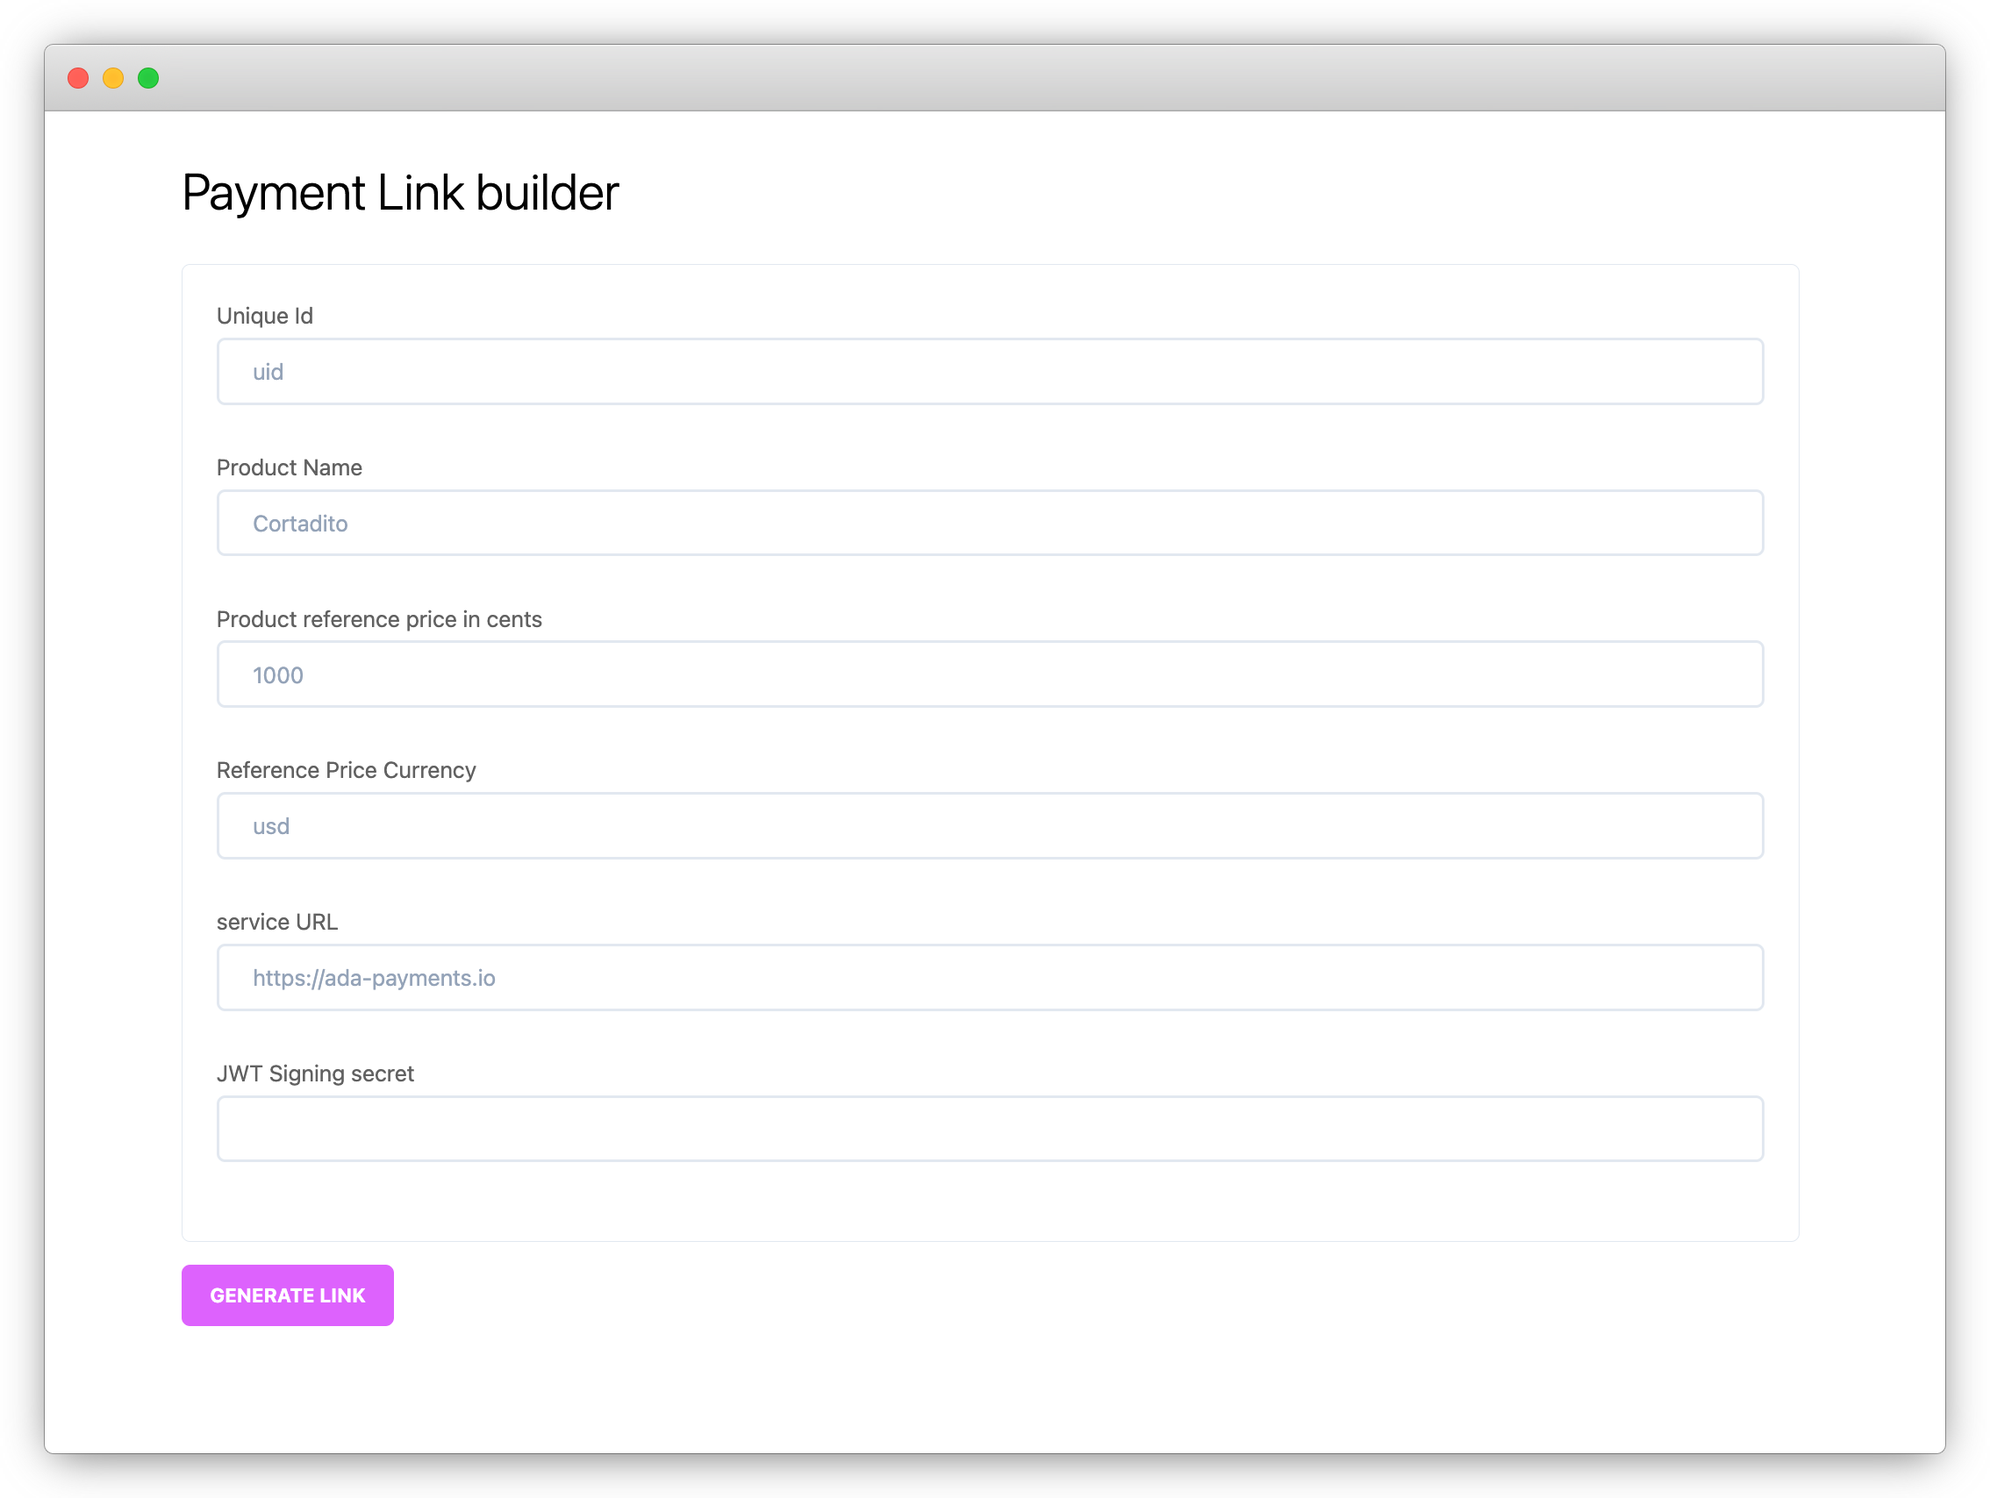
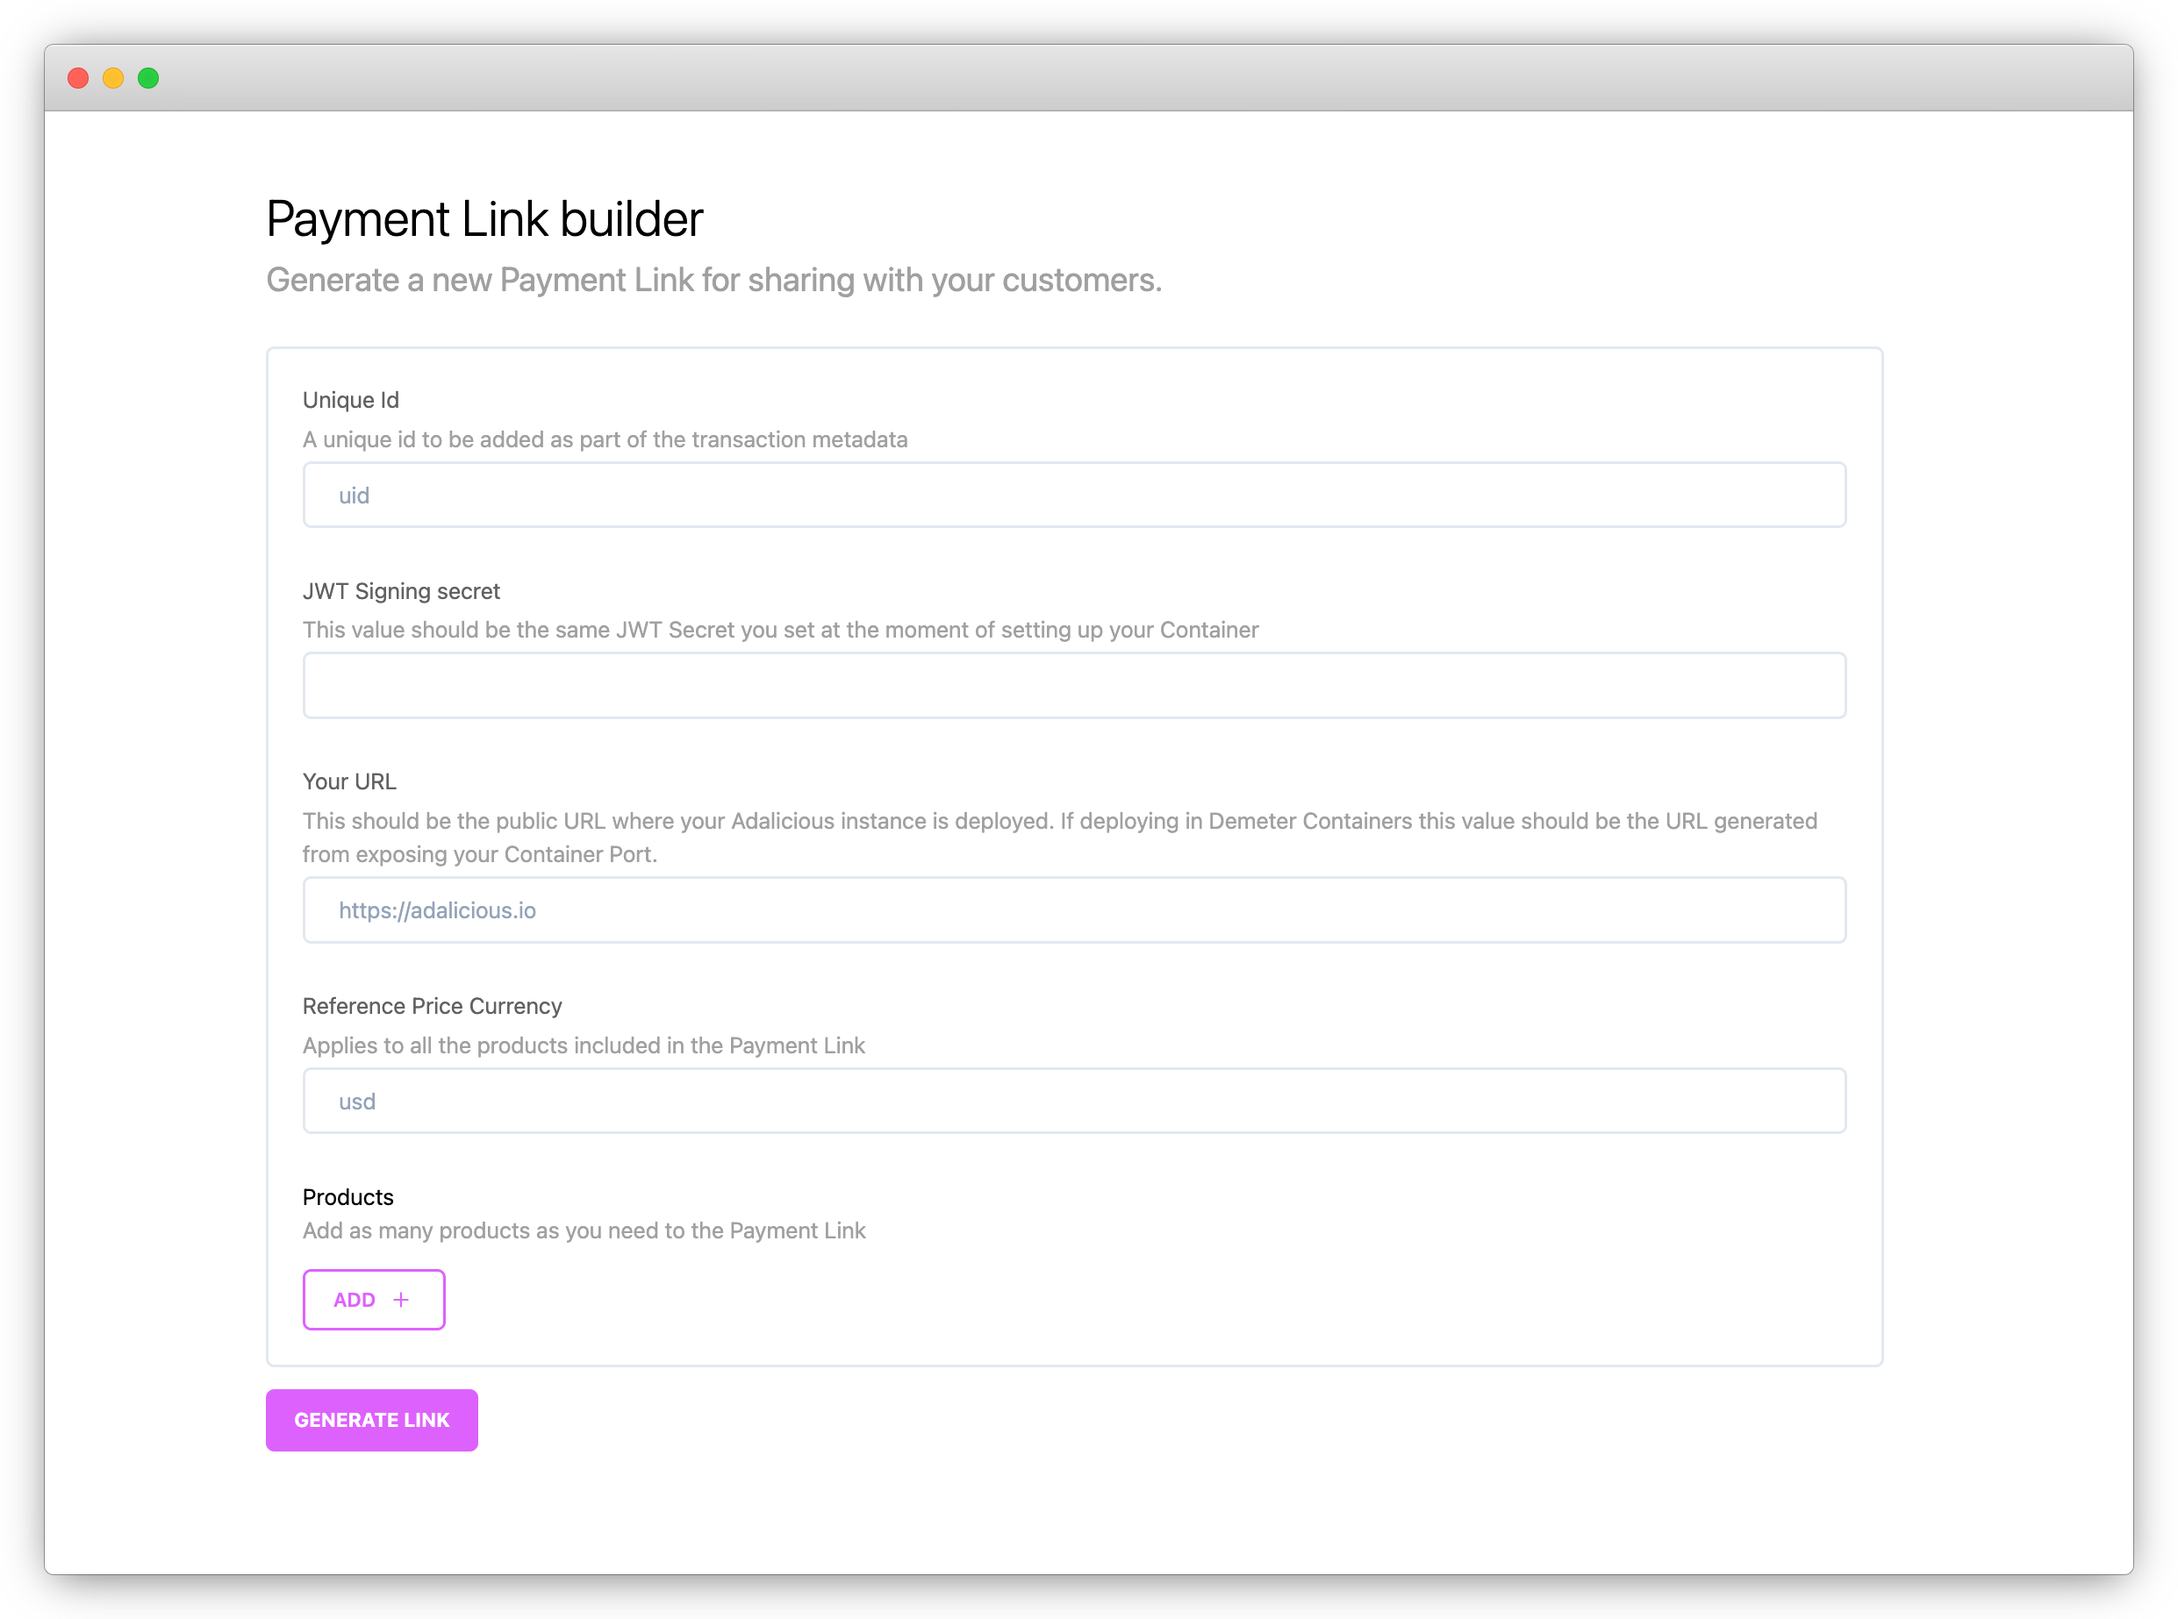
chore: updated readme and fixed some issues with the link builder

diff --git a/src/pages/linkbuilder.tsx b/src/pages/linkbuilder.tsx
@@ -4,52 +4,42 @@ import { PlusIcon, TrashIcon } from "@/fragments/icons";
 import { TextField } from "@/fragments/input";
 import type { NextPage } from "next";
 import { useState } from "react";
-import { useFieldArray, useForm } from "react-hook-form";
+import { FormProvider, useFieldArray, useForm, useFormContext } from "react-hook-form";
 
 const LinkBuilder: NextPage = () => {
   const [link, setLink] = useState<string>();
   const [error, setError] = useState<string>();
 
   // const { name, label, description } = props;
-  const { control, register } = useForm();
+  const methods = useForm();
 
   const { fields, remove, insert } = useFieldArray({
-    control,
+    control: methods.control,
     name: "products",
   });
 
-  // Handles the form submission
-  const handleSubmit = async (event: any) => {
-    event.preventDefault();
-
+  const onSubmit = async (data: any) => {
     setError("");
 
     // Very basic error handling - This needs to be improved
-    if (!event.target.pid?.value) {
+    if (!data.pid) {
       setError("Unique Id is required");
       return;
     }
-    if (!event.target.jwt?.value) {
+    if (!data.jwt) {
       setError("JWT Signing Secret is required");
       return;
     }
-    if (!event.target.url?.value) {
+    if (!data.url) {
       setError("URL is required");
       return;
     }
-    if (!event.target.currency?.value) {
+    if (!data.currency) {
       setError("Reference price Currency is required");
       return;
     }
 
-    const data = {
-      pid: event.target.pid.value,
-      currency: event.target.currency.value,
-      url: event.target.url.value,
-      jwt: event.target.jwt.value,
-    };
-
-    const products: Product[] = fields.map((f: any) => ({
+    const products: Product[] = data.products.map((f: any) => ({
       name: f.name,
       description: "",
       price: { amount: Number(f.value), currency: data.currency },
@@ -59,7 +49,7 @@ const LinkBuilder: NextPage = () => {
       setError("Add at least one Product");
       return;
     }
-    
+
     if (!products.filter((p) => p.name && p.price.amount).length) {
       setError("Add at least one valid Product");
       return;
@@ -85,79 +75,84 @@ const LinkBuilder: NextPage = () => {
       <h2 className="title-xl">Payment Link builder</h2>
       <p className="text-gray-400 mt-2 title-lg">Generate a new Payment Link for sharing with your customers.</p>
 
-      <form onSubmit={handleSubmit} className="mt-8">
-        <div className="box-border">
-          <TextField
-            name="pid"
-            label="Unique Id"
-            placeholder="uid"
-            description="A unique id to be added as part of the transaction metadata"
-          />
-          <TextField
-            name="jwt"
-            label="JWT Signing secret"
-            description="This value should be the same JWT Secret you set at the moment of setting up your Container"
-          />
-          <TextField
-            name="url"
-            label="Your URL"
-            placeholder="https://adalicious.io"
-            description="This should be the public URL where your Adalicious instance is deployed. If deploying in Demeter Containers this value should be the URL generated from exposing your Container Port."
-          />
+      <FormProvider {...methods}>
+        <form onSubmit={methods.handleSubmit(onSubmit)} className="mt-8">
+          <div className="box-border">
+            <TextField
+              name="pid"
+              register={methods.register(`pid`)}
+              label="Unique Id"
+              placeholder="uid"
+              description="A unique id to be added as part of the transaction metadata"
+            />
+            <TextField
+              name="jwt"
+              register={methods.register(`jwt`)}
+              label="JWT Signing secret"
+              description="This value should be the same JWT Secret you set at the moment of setting up your Container"
+            />
+            <TextField
+              name="url"
+              register={methods.register(`url`)}
+              label="Your URL"
+              placeholder="https://adalicious.io"
+              description="This should be the public URL where your Adalicious instance is deployed. If deploying in Demeter Containers this value should be the URL generated from exposing your Container Port."
+            />
 
-          <TextField
-            name="currency"
-            label="Reference Price Currency"
-            placeholder="usd"
-            description="Applies to all the products included in the Payment Link"
-          />
+            <TextField
+              name="currency"
+              register={methods.register(`currency`)}
+              label="Reference Price Currency"
+              placeholder="usd"
+              description="Applies to all the products included in the Payment Link"
+            />
 
-          <p className="mt-4">Products</p>
-          <p className="text-base text-gray-400">Add as many products as you need to the Payment Link</p>
+            <p className="mt-4">Products</p>
+            <p className="text-base text-gray-400">Add as many products as you need to the Payment Link</p>
 
-          <div className="flex flex-col mt-4">
-            {fields.map((field, index) => (
-              <div key={field.id} className="flex gap-4 items-center">
-                <input
-                  {...register(`products.${index}.name`)}
-                  name={`products.${index}.name`}
-                  placeholder="Product Name"
-                  className="mb-4 px-6 h-12 w-full rounded-md text-base border-2 border-slate-200 placeholder-slate-400 text-slate-800 focus-visible:outline-0 border-0"
-                />
+            <div className="flex flex-col mt-4">
+              {fields.map((field, index) => (
+                <div key={field.id} className="flex gap-4 items-center">
+                  <input
+                    {...methods.register(`products.${index}.name`)}
+                    name={`products.${index}.name`}
+                    placeholder="Product Name"
+                    className="mb-4 px-6 h-12 w-full rounded-md text-base border-2 border-slate-200 placeholder-slate-400 text-slate-800 focus-visible:outline-0 border-0"
+                  />
 
-                <input
-                  {...register(`products.${index}.value`)}
-                  name={`products.${index}.value`}
-                  placeholder="Product Price"
-                  className="mb-4 px-6 h-12 w-full rounded-md text-base border-2 border-slate-200 placeholder-slate-400 text-slate-800 focus-visible:outline-0 border-0"
-                />
+                  <input
+                    {...methods.register(`products.${index}.value`)}
+                    name={`products.${index}.value`}
+                    placeholder="Product Price in cents"
+                    className="mb-4 px-6 h-12 w-full rounded-md text-base border-2 border-slate-200 placeholder-slate-400 text-slate-800 focus-visible:outline-0 border-0"
+                  />
 
-                <button className="btn-alert mb-4" type="button" onClick={() => remove(index)}>
-                  <TrashIcon />
-                </button>
-              </div>
-            ))}
-            <button
-              className="btn-secondary border-2 border-txpink"
-              type="button"
-              onClick={() => insert(fields.length, 0)}
-            >
-              Add <PlusIcon className="w-5 h-5 ml-2" />
-            </button>
-          </div>
-        </div>
-        {!!error && error !== "" && (
-          <>
-            <div className="box-red mt-4">
-              <p className="text-red-500">{error}</p>
+                  <button className="btn-alert mb-4" type="button" onClick={() => remove(index)}>
+                    <TrashIcon />
+                  </button>
+                </div>
+              ))}
+              <button
+                className="btn-secondary border-2 border-txpink"
+                type="button"
+                onClick={() => insert(fields.length, 0)}
+              >
+                Add <PlusIcon className="w-5 h-5 ml-2" />
+              </button>
             </div>
-          </>
-        )}
-        <button className="btn-primary mt-4 flex items-center" type="submit">
-          Generate Link
-        </button>
-      </form>
-
+          </div>
+          {!!error && error !== "" && (
+            <>
+              <div className="box-red mt-4">
+                <p className="text-red-500">{error}</p>
+              </div>
+            </>
+          )}
+          <button className="btn-primary mt-4 flex items-center" type="submit">
+            Generate Link
+          </button>
+        </form>
+      </FormProvider>
       {!!link && (
         <>
           <h2 className="title-lg mt-8">Link Generated</h2>

diff --git a/src/pages/index.tsx b/src/pages/index.tsx
@@ -28,9 +28,12 @@ const Home: NextPage<{
     <>
       <div className="h-fill flex flex-col items-center pt-24">
         <div className="wrapper-xs box-slate flex flex-col text-center items-center p-12">
-          <div className="box-slate">
-            <h1 className="title-xl">{tenant.name}</h1>
-            <p className="text-gray-400 mt-2 title-lg">Effortlessly create secure links to receive payments in ADA</p>
+          <div className="box-slate flex flex-col items-center">
+            <div className="flex">
+              <img src={tenant.logo} alt="" className="w-10" />
+              <h1 className="title-xl text-gray-600 ml-4">{tenant.name}</h1>
+            </div>
+            <p className="text-gray-400 mt-6 title-lg">Effortlessly create secure links to receive payments in ADA</p>
           </div>
           <button className="btn-primary mt-12 items-center" onClick={() => router.push("/linkbuilder")}>
             Create Payment Link

diff --git a/src/fragments/input.tsx b/src/fragments/input.tsx
@@ -1,3 +1,5 @@
+import { ClassAttributes, InputHTMLAttributes } from "react";
+
 type TextInputProps = {
   name?: string;
   label?: string;
@@ -7,6 +9,7 @@ type TextInputProps = {
   placeholder?: string;
   className?: string;
   containerClasses?: string;
+  register?: JSX.IntrinsicAttributes & ClassAttributes<HTMLInputElement> & InputHTMLAttributes<HTMLInputElement>
 };
 
 export function TextField(props: TextInputProps) {
@@ -25,6 +28,7 @@ export function TextField(props: TextInputProps) {
         )}
         <input
           name={props.name}
+          {...props.register}
           placeholder={props.placeholder}
           defaultValue={props.value}
           key={props.value}

diff --git a/src/pages/pay.tsx b/src/pages/pay.tsx
@@ -134,7 +134,7 @@ const Home: NextPage<{
   }, []);
 
   const currency = useMemo(() => {
-    return products[0].price.currency;
+    return products.length ? products[0].price.currency : 'usd';
   }, [products]);
 
   const totalInCurrency = products.reduce((acc, s) => acc + s.price.amount, 0);

diff --git a/README.md b/README.md
@@ -103,7 +103,6 @@ In the current implementation you can customize the following values:
 
 `TENANT_NAME`
 `TENANT_LOGO`
-`ACCENT_COLOR`
 
 We are planning on adding more customizations options in the future, but for now we are keeping it simple!
 
@@ -115,7 +114,6 @@ We really want to make it easy for anymore to deploy their own payment forms. As
 ```
 ghcr.io/txpipe/ada-payments-starter-kit:a1218f1447342b5e37627b4d7b016e0e1d367f08
 ```
-
 
 ### 1 - Create a Container in Demeter
 
@@ -174,15 +172,11 @@ By clicking the `URL` of your exposed port you should be able to access your App
 
 ### 3 - Generating Payment Links
 
-At this point we have deployed a container with all the configuration, we have exposed the port so we can access it from outside of Demeter, but when we click in the URL we get a `Not Found` page. 
+At this point we have deployed a container with all the configuration, and we have exposed the port so we can access it from outside of Demeter. Give it a try and access your application. 
 
-<img src="public/app-not-found.png" alt="app-not-found">
+<img src="public/adalicious-home.png" alt="app-home">
 
-No worries, this is just because we have not generated any Payment Link. 
-
-In order to generate a payment link we will access the `linkbuilder` URL. Just add `/linkbuilder` to the public URL generated by Demeter. ie: `https://3000-romantic-birthday-gdqoy8.us1.demeter.run/linkbuilder`.
-
-You should now have access to the Payment Links builder for your project. 
+Whenever you need to receive a payment you need to create a new Payment Link, so lets press the <b>Create Payment Link</b> button to build our first shareable link.
 
 <img src="public/payment-link-builder.png" alt="payment-link-builder">
 
@@ -192,16 +186,17 @@ In this form we need to input the following values:
 | -------------------------- | ------------------------------------------------------------------------------------------------------------------------------------- |
 | `Unique id`                | A unique id you want to be included in the transaction metadata.                                                                      |
 | `Product Name`             | The name of the product you want to display in the Payment Form                                                                       |
-| `Reference price in cents` | The product price in the reference currency. This value should be in cents.                                                           |
-| `Reference price currency` | The reference price currency. We use the coingecko API to convert the reference price in this currency to its value in ADA.           |
+| `Reference Price Currency`             | The currency we will use for setting up the price per product                                                                       |
 | `service URL`              | This should be the public URL where your container is running in Demeter. ie: `https://3000-romantic-birthday-gdqoy8.us1.demeter.run` |
 | `JWT_SECRET`               | This should be the same value you entered in your container ENV Variable.                                                             |
 
+You also need to add all the Products you want to charge. For each one of the products you need to specify a Name and its price in the reference currency in cents. 
+
 Once you have input all the values you can press the <b>GENERATE LINK</b> button. 
 
-<img src="public/link-generated.png" alt="payment-link-generated">
+<img src="public/payment-link-generated.png" alt="payment-link-generated">
 
-You can now use this link to share it with your customer! Keep in mind this link will be valid for only 1 hour, so you we will have to generate a new link for every time you need to request a payment.    
+You can now use this link to share it with your customer! Keep in mind this link will be valid for only one hour, so you we will have to generate a new link for every time you need to request a payment.    
 
 ### 4 - Get the Payment Notifications
 
